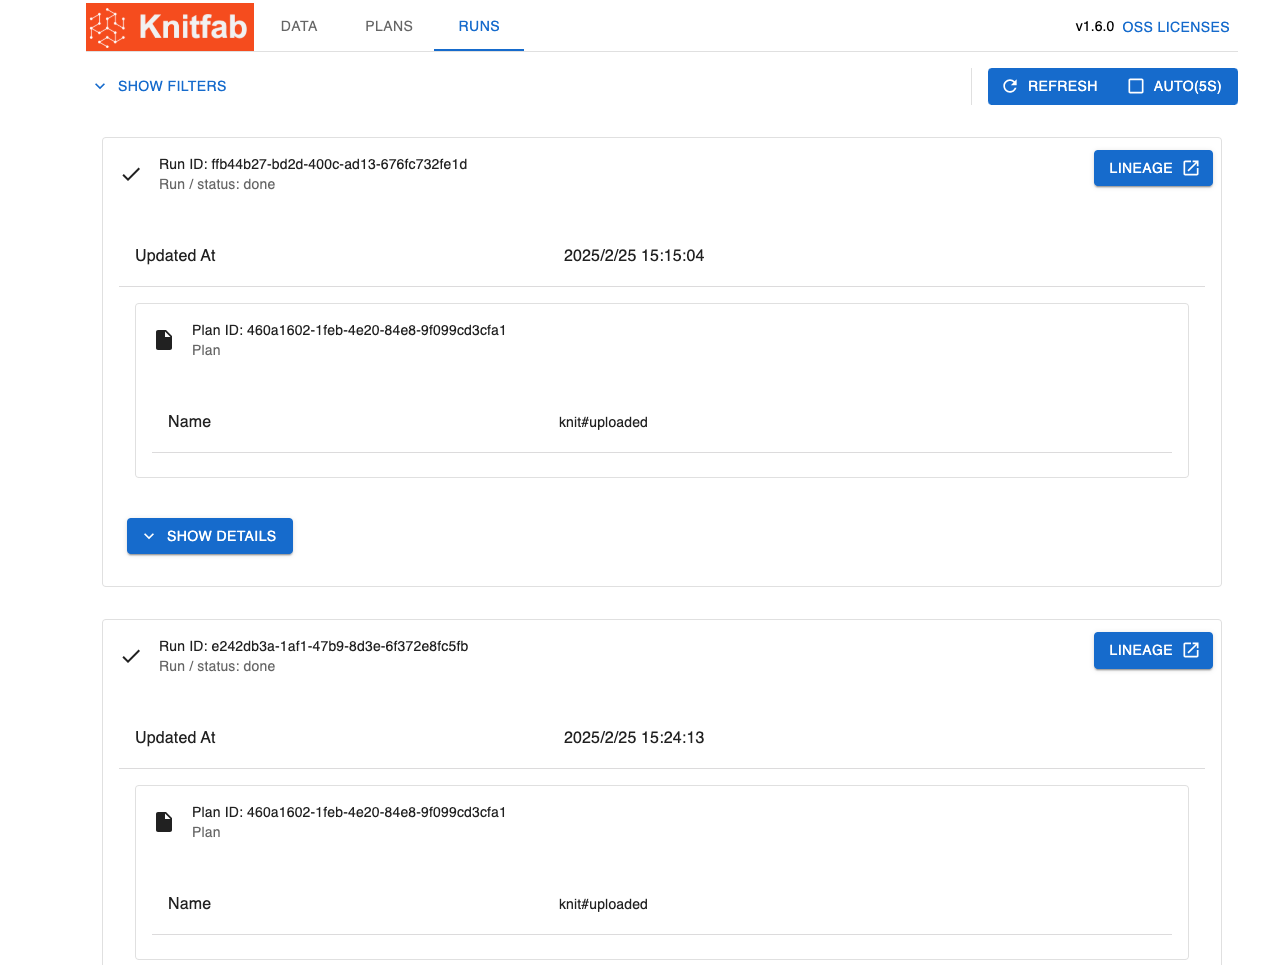
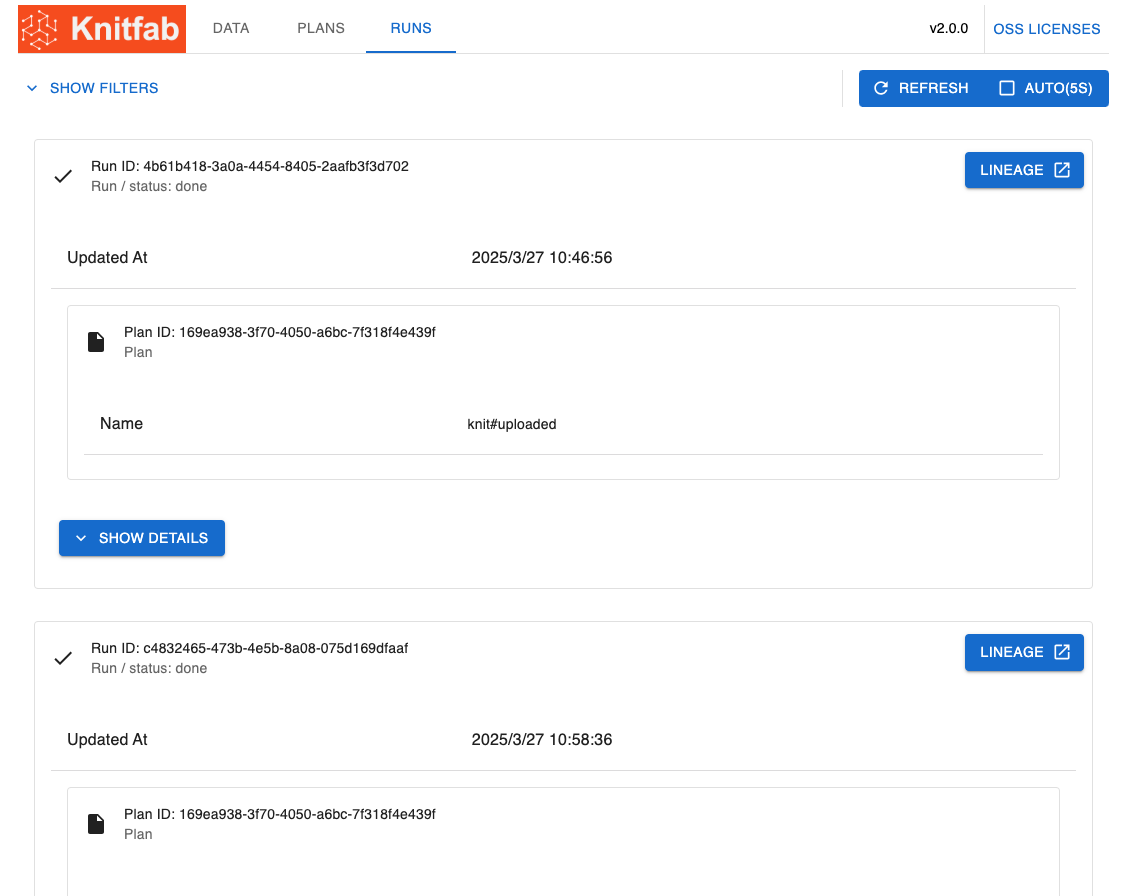
Update images based v2.0.0

diff --git a/02.user-guide/user-guide.ja.md b/02.user-guide/user-guide.ja.md
@@ -1592,7 +1592,9 @@ knit run rm RUN_ID
 knit data lineage KNIT_ID | dot -T png -o lineage-graph.png
 ```
 
-こうすると、指定した "データ" の前後 3 データ分のリネージを画像ファイル `lineage-graph.png` として得ることができます。
+こうすると、指定した "データ" の前後 3 データ分のリネージを画像ファイル `lineage-graph.png` として、次のような画像を得ることができます。
+
+![](./images/knit-data-lineage/lineage-graph.png)
 
 #### コマンドラインフラグ
 

diff --git a/02.user-guide/user-guide.en.md b/02.user-guide/user-guide.en.md
@@ -1545,7 +1545,9 @@ In combination with the `dot` command,
 knit data lineage KNIT_ID | dot -T png -o lineage-graph.png
 ```
 
-can obtain the lineage of the specified Data with the preceding and following 3 Data  as an image file named `lineage-graph.png`.
+can obtain the lineage of the specified Data with the preceding and following 3 Data as an image file named `lineage-graph.png`, like an image below.
+
+![](./images/knit-data-lineage/lineage-graph.png)
 
 #### Command Line Flags
 
